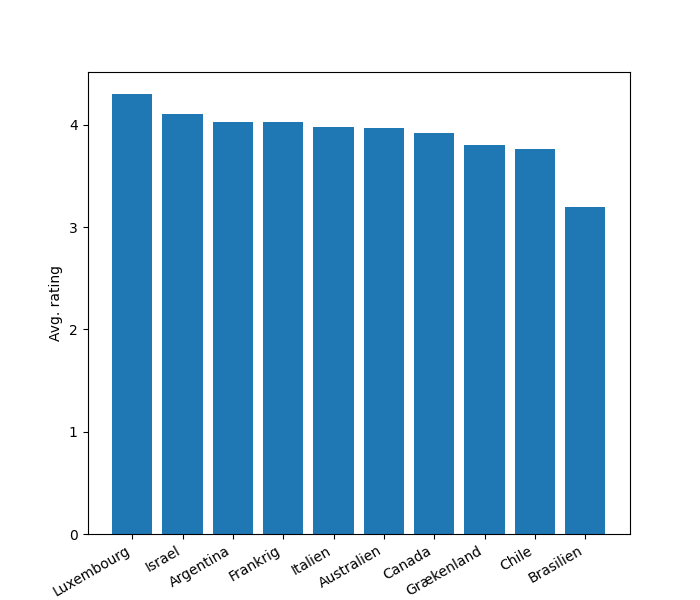
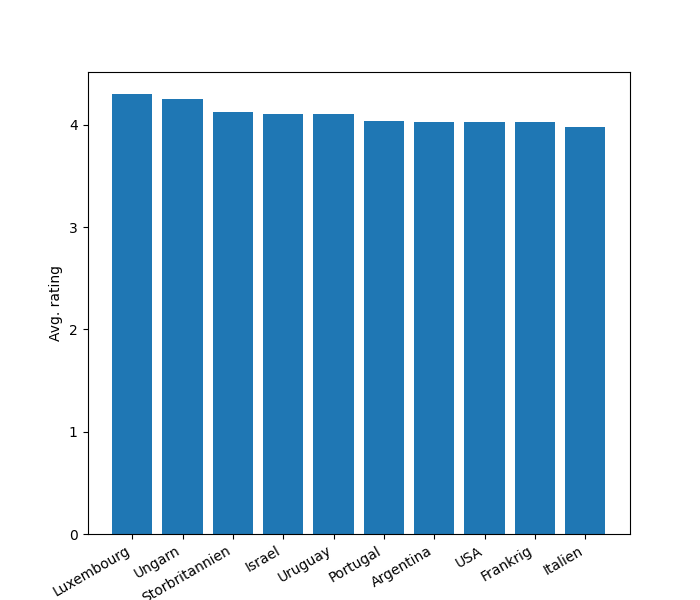
fix top-10

Changed region(s): [[0.21, 0.15, 0.87, 0.36], [0.18, 0.9, 0.81, 1.0], [0.81, 0.9, 0.84, 0.93]]

diff --git a/modules/create_top10_plot.py b/modules/create_top10_plot.py
@@ -4,9 +4,9 @@ from collections import OrderedDict
 
 wine_data = pd.read_csv('../data/wine_data.csv', encoding="utf-8")
 
-df_avg = pd.DataFrame(wine_data.groupby('country', as_index=False)['rating'].mean()).head(10)
+df_avg = pd.DataFrame(wine_data.groupby('country', as_index=False)['rating'].mean())
 
-ordered_df_avg = df_avg.sort_values(['rating'], ascending=[False])
+ordered_df_avg = df_avg.sort_values(['rating'], ascending=[False]).head(10)
 
 rating_dict = dict(zip(ordered_df_avg['country'], round(ordered_df_avg['rating'], 3)))
 
